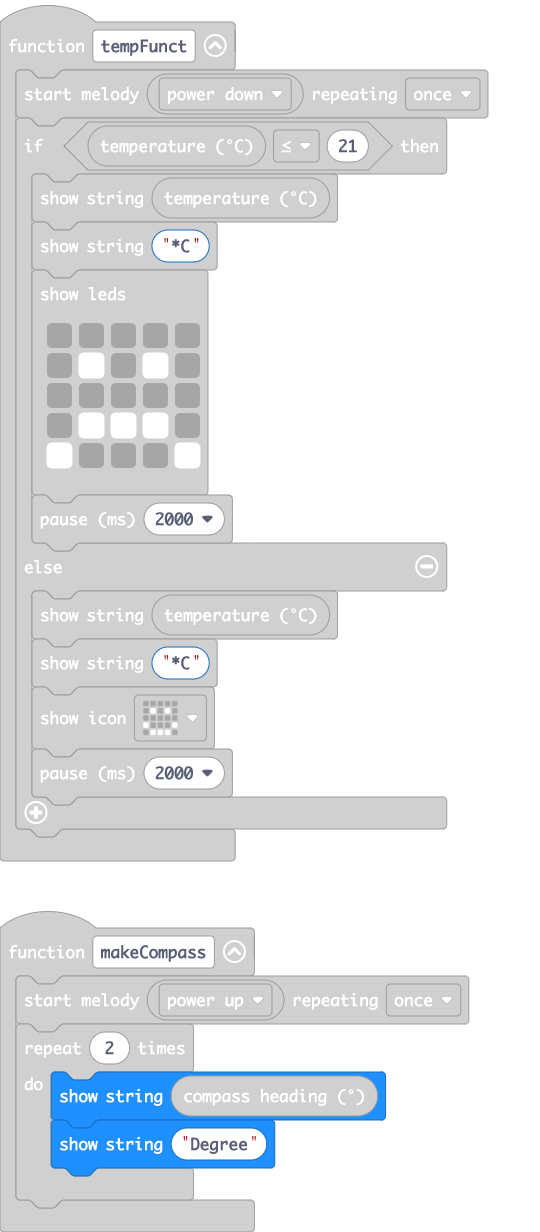
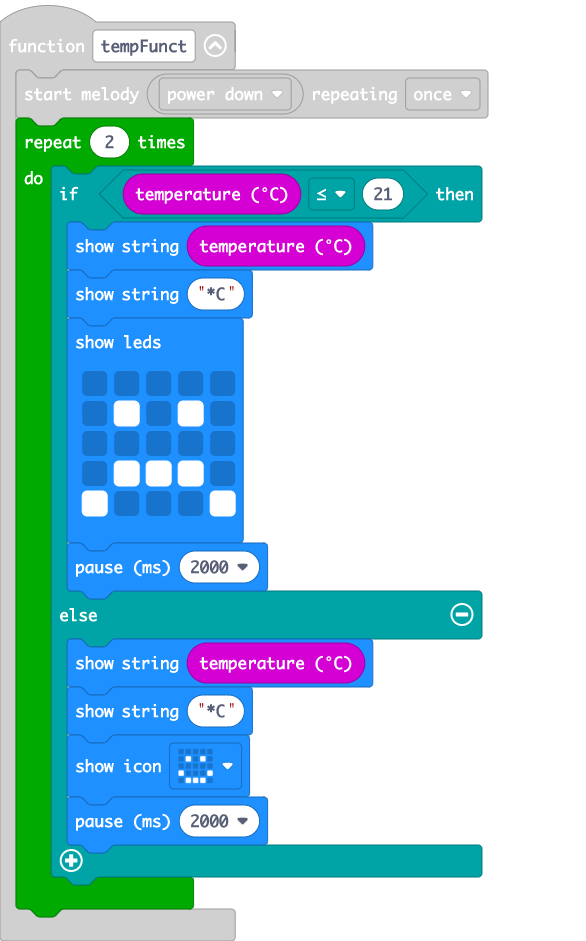
Update main.blocks, main.ts

diff --git a/main.ts b/main.ts
@@ -33,22 +33,24 @@ input.onButtonPressed(Button.B, function () {
 })
 function tempFunct () {
     music.startMelody(music.builtInMelody(Melodies.PowerDown), MelodyOptions.Once)
-    if (input.temperature() <= 21) {
-        basic.showString("" + (input.temperature()))
-        basic.showString("*C")
-        basic.showLeds(`
-            . . . . .
-            . # . # .
-            . . . . .
-            . # # # .
-            # . . . #
-            `)
-        basic.pause(2000)
-    } else {
-        basic.showString("" + (input.temperature()))
-        basic.showString("*C")
-        basic.showIcon(IconNames.Happy)
-        basic.pause(2000)
+    for (let index = 0; index < 2; index++) {
+        if (input.temperature() <= 21) {
+            basic.showString("" + (input.temperature()))
+            basic.showString("*C")
+            basic.showLeds(`
+                . . . . .
+                . # . # .
+                . . . . .
+                . # # # .
+                # . . . #
+                `)
+            basic.pause(2000)
+        } else {
+            basic.showString("" + (input.temperature()))
+            basic.showString("*C")
+            basic.showIcon(IconNames.Happy)
+            basic.pause(2000)
+        }
     }
 }
 function turnOnMelody () {
